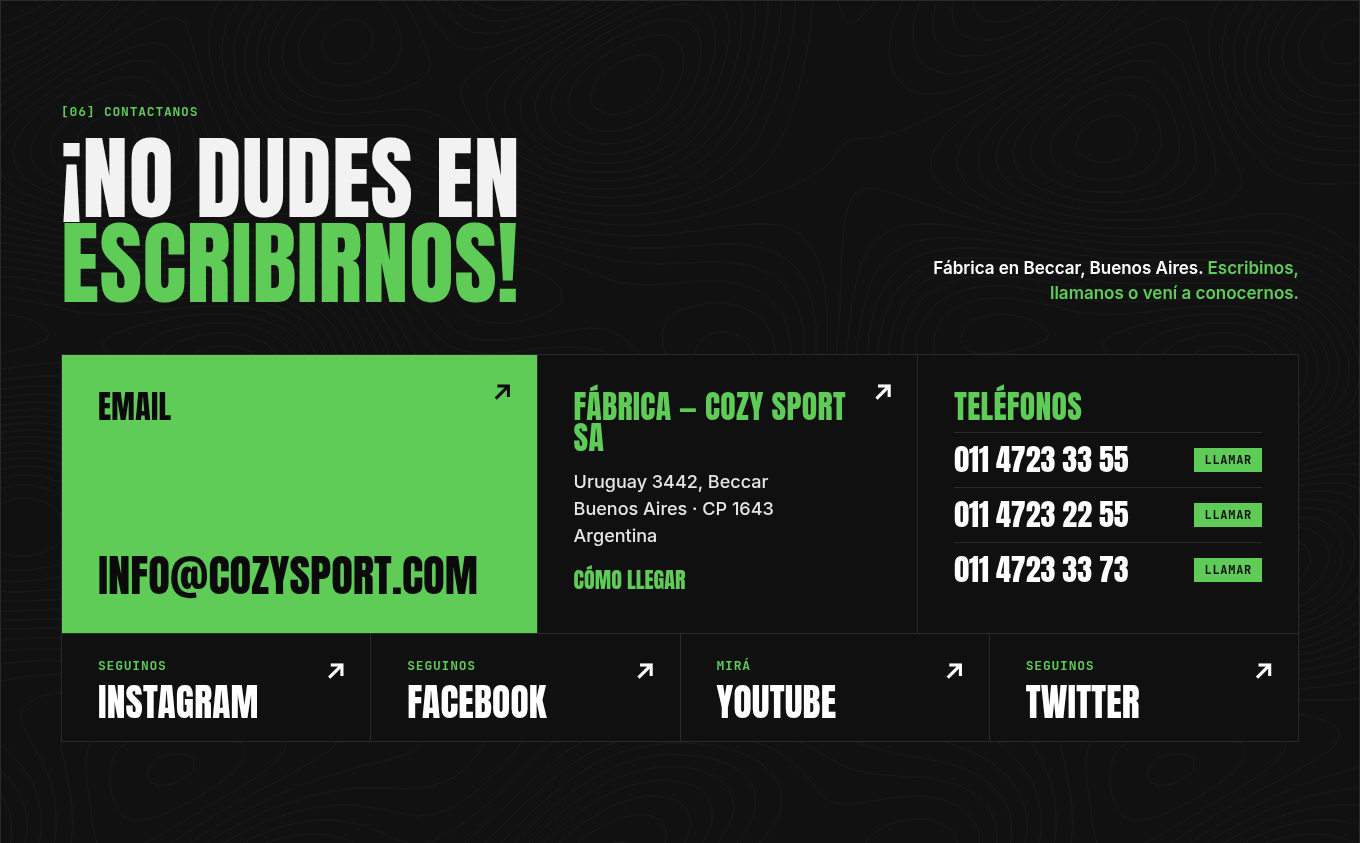
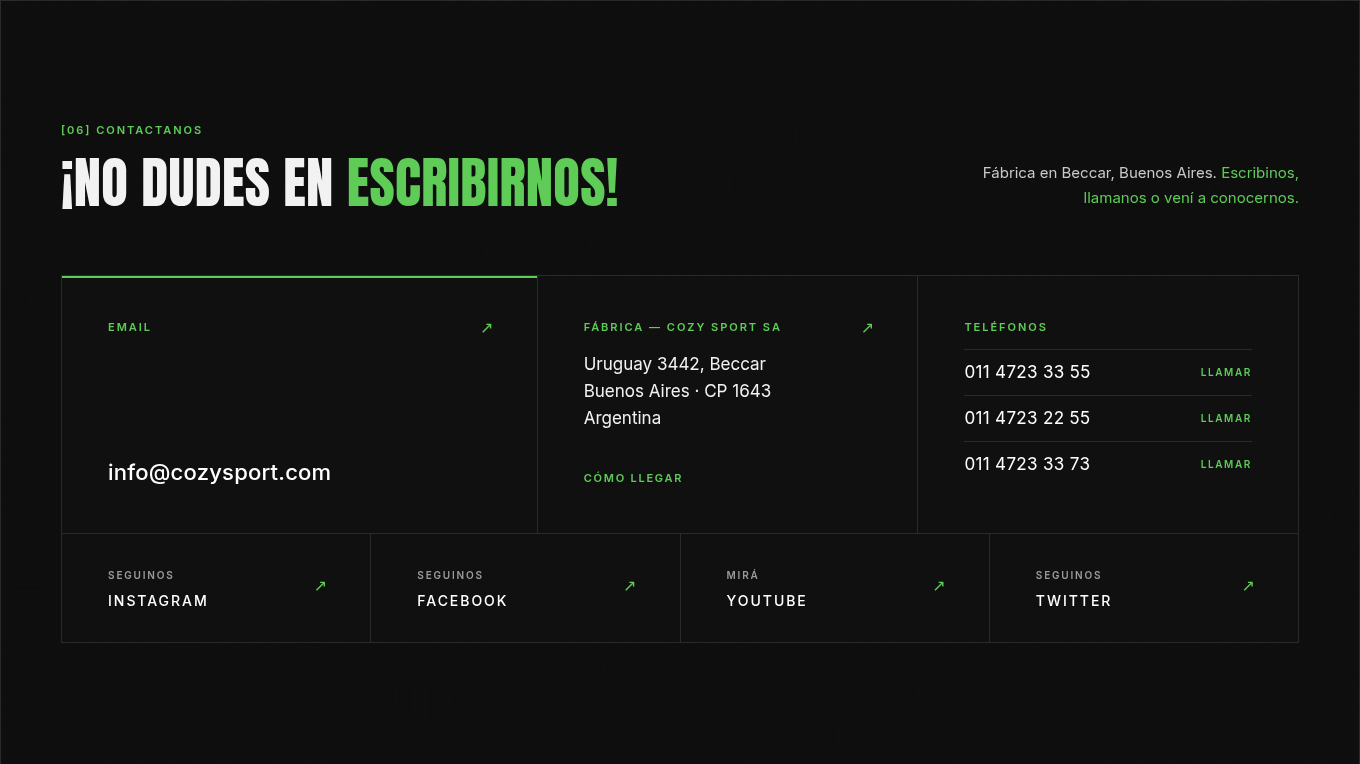
Sitewide premium polish: refined type scale, spacing rhythm, restrained green, fine lines, calmer hovers

diff --git a/styles.css b/styles.css
@@ -76,13 +76,14 @@ main>.frame:first-child{border-top:1px solid var(--line)}
 .hero__photo>*:not(img){position:absolute;z-index:2}
 .hero__top{top:0;left:0;right:0;display:flex;align-items:center;gap:28px;padding:22px 24px 0 26px}
 .hero__logo img{width:150px;height:auto}
-.hero__nav{display:flex;flex-wrap:wrap;gap:4px 28px;margin-left:auto;font-size:21px;letter-spacing:.03em}
-.hero__nav a{text-decoration:none;color:#fff;padding:4px 0;border-bottom:3px solid transparent;text-shadow:0 1px 10px rgba(0,0,0,.35);transition:color .2s,border-color .2s}
+.hero__nav{display:flex;flex-wrap:wrap;gap:4px 30px;margin-left:auto;font-family:var(--sans);font-weight:500;font-size:13px;text-transform:uppercase;letter-spacing:.16em}
+.hero__nav a{text-decoration:none;color:#fff;padding:6px 0;border-bottom:1px solid transparent;text-shadow:0 1px 8px rgba(0,0,0,.45);transition:color .2s,border-color .2s}
 .hero__nav a:hover{color:var(--acc)}
-.hero__nav a[aria-current]{color:var(--acc);border-bottom-color:var(--acc)}
+.hero__nav a[aria-current]{color:#fff;border-bottom-color:var(--acc)}
 .hero__sq{flex:none}
-.hero__tag{top:118px;right:26px;text-align:right;font-size:clamp(34px,3.7vw,58px);line-height:.95;color:#fff;text-shadow:0 2px 18px rgba(0,0,0,.35)}
-.hero__mini{bottom:calc(clamp(72px,10vw,160px) + 26px);left:26px;font-size:13px;color:var(--acc);font-weight:700}
+.hero__tag{top:118px;right:26px;text-align:right;font-family:var(--sans);font-weight:300;text-transform:uppercase;letter-spacing:.08em;font-size:clamp(20px,2vw,30px);line-height:1.3;color:#fff;text-shadow:0 1px 14px rgba(0,0,0,.45)}
+.hero__tag .acc{font-weight:500}
+.hero__mini{bottom:calc(clamp(72px,10vw,160px) + 26px);left:26px;font-size:12px;letter-spacing:.18em;color:var(--acc);font-weight:600;text-shadow:0 1px 8px rgba(0,0,0,.5)}
 .hero__title{bottom:-.06em;left:22px;font-size:clamp(72px,10vw,160px);color:var(--acc);line-height:.86;white-space:nowrap}
 
 .hero__num{position:absolute;inset:0;pointer-events:none;z-index:3}
@@ -132,7 +133,7 @@ main>.frame:first-child{border-top:1px solid var(--line)}
 /* ---------- SERVICIOS ---------- */
 .svc{border-top:1px solid var(--line)}
 .svc__row{display:grid;grid-template-columns:90px 1.2fr 1fr;align-items:center;gap:24px;padding:clamp(16px,2vw,26px) 0;border-bottom:1px solid var(--line);transition:padding .25s,background .25s}
-.svc__i{font-size:13px;color:var(--acc);font-weight:700}
+.svc__i{font-size:11px;color:var(--acc)}
 .svc__row h3{font-size:clamp(28px,3.4vw,52px);transition:color .25s}
 .svc__row p{font-size:16px;color:#d6d6d6}
 .svc__row:hover{padding-left:14px}
@@ -160,7 +161,7 @@ main>.frame:first-child{border-top:1px solid var(--line)}
 .banner__title{font-size:clamp(56px,8.4vw,136px);color:var(--acc)}
 .banner__cta{align-self:flex-end;max-width:420px;background:rgba(10,10,10,.92);border:1px solid var(--line);padding:22px}
 .banner__cta p{font-size:16px;color:#fff;margin-bottom:16px}
-.btn{display:inline-block;background:var(--acc);color:var(--ink);font-family:var(--disp);font-weight:400;text-transform:uppercase;letter-spacing:.03em;font-size:20px;line-height:1;padding:14px 20px;text-decoration:none;transition:transform .2s}
+.btn{display:inline-block;background:var(--acc);color:var(--ink);font-family:var(--disp);font-weight:400;text-transform:uppercase;letter-spacing:.03em;font-size:15px;letter-spacing:.08em;line-height:1;padding:13px 20px;text-decoration:none;transition:transform .2s}
 .btn:hover{transform:translate(2px,-2px)}
 
 /* ---------- HISTORIA ---------- */
@@ -190,45 +191,132 @@ main>.frame:first-child{border-top:1px solid var(--line)}
 /* ---------- CONTACTO ---------- */
 .contact__big{font-size:clamp(46px,6.4vw,104px)}
 .cards{display:grid;grid-template-columns:1.25fr 1fr 1fr;gap:1px;background:var(--line);border:1px solid var(--line)}
-.card{position:relative;display:flex;flex-direction:column;gap:14px;min-height:230px;padding:clamp(22px,2.6vw,36px);background:var(--panel);text-decoration:none;color:#fff;transition:background .25s,color .25s}
-a.card:hover,a.card:focus-visible{background:var(--acc);color:var(--ink)}
-.card__lbl{font-family:var(--disp);text-transform:uppercase;letter-spacing:.01em;font-size:clamp(24px,2.2vw,32px);line-height:1;color:var(--acc)}
-a.card:hover .card__lbl,a.card:focus-visible .card__lbl{color:var(--ink)}
-.card__big{margin-top:auto;font-family:var(--disp);text-transform:uppercase;font-size:clamp(30px,3.1vw,48px);line-height:1;overflow-wrap:anywhere}
-.card__val{font-size:18px;font-weight:500;line-height:1.5;color:#e6e6e6}
-a.card:hover .card__val{color:var(--ink)}
-.card__cta{margin-top:auto;font-family:var(--disp);text-transform:uppercase;font-size:22px;color:var(--acc)}
-a.card:hover .card__cta{color:var(--ink)}
-.card__go{position:absolute;top:22px;right:24px;font-size:26px;font-weight:700;line-height:1}
-.card--mail{background:var(--acc);color:var(--ink)}
-.card--mail .card__lbl{color:var(--ink)}
-.card--mail:hover,.card--mail:focus-visible{background:#fff!important}
+.card{position:relative;display:flex;flex-direction:column;gap:18px;min-height:240px;padding:clamp(28px,3.2vw,48px);background:var(--panel);text-decoration:none;color:#fff;transition:background .25s,color .25s}
+a.card:hover,a.card:focus-visible{background:#151515}
+.card__lbl{font-family:var(--sans);font-weight:600;text-transform:uppercase;letter-spacing:.18em;font-size:11px;line-height:1;color:var(--acc)}
+
+.card__big{margin-top:auto;font-family:var(--sans);font-weight:500;font-size:clamp(18px,1.6vw,22px);letter-spacing:.01em;line-height:1.2;color:#fff;overflow-wrap:anywhere;border-bottom:1px solid transparent;width:fit-content;transition:border-color .25s,color .25s}
+a.card:hover .card__big{border-bottom-color:var(--acc)}
+.card__val{font-size:17px;font-weight:400;line-height:1.6;color:#f2f2f2}
+
+.card__cta{margin-top:auto;font-family:var(--sans);font-weight:600;text-transform:uppercase;letter-spacing:.16em;font-size:11px;color:var(--acc)}
+
+.card__go{position:absolute;top:clamp(26px,3vw,44px);right:clamp(26px,3vw,44px);font-size:16px;font-weight:400;line-height:1;color:var(--acc);transition:transform .25s}
+a.card:hover .card__go,.social:hover .card__go{transform:translate(2px,-2px)}
+.card--mail{box-shadow:inset 0 2px 0 var(--acc)}
 .card--list{gap:0}
-.card--list .card__lbl{margin-bottom:10px}
-.card__row{display:flex;justify-content:space-between;align-items:center;gap:12px;padding:12px 0;border-top:1px solid var(--line);text-decoration:none;font-family:var(--disp);font-size:clamp(24px,2.2vw,30px);line-height:1;color:#fff;transition:color .2s,padding .2s}
-.card__row-cta{font-family:var(--mono);text-transform:uppercase;letter-spacing:.06em;font-size:12px;font-weight:700;color:var(--ink);background:var(--acc);padding:6px 10px}
-.card__row:hover,.card__row:focus-visible{color:var(--acc);padding-left:6px}
+.card--list .card__lbl{margin-bottom:16px}
+.card__row{display:flex;justify-content:space-between;align-items:center;gap:12px;padding:14px 0;border-top:1px solid var(--line);text-decoration:none;font-family:var(--sans);font-weight:400;font-size:17px;letter-spacing:.02em;line-height:1;color:#fff;transition:color .2s,padding .2s}
+.card__row-cta{font-family:var(--sans);text-transform:uppercase;letter-spacing:.16em;font-size:10px;font-weight:600;color:var(--acc);padding:0}
+.card__row:hover,.card__row:focus-visible{color:var(--acc)}
 .socials{display:grid;grid-template-columns:repeat(4,1fr);gap:1px;background:var(--line);border:1px solid var(--line);border-top:0}
-.social{position:relative;display:flex;flex-direction:column;gap:8px;padding:22px clamp(22px,2.6vw,36px);background:var(--panel);text-decoration:none;color:#fff;transition:background .25s,color .25s}
-.social .lbl{font-size:13px;font-weight:700;color:var(--acc)}
-.social b{font-weight:400;font-size:clamp(28px,2.6vw,40px)}
-.social:hover,.social:focus-visible{background:var(--acc);color:var(--ink)}
-.social:hover .lbl,.social:focus-visible .lbl{color:var(--ink)}
+.social{position:relative;display:flex;flex-direction:column;gap:12px;padding:clamp(24px,2.6vw,34px) clamp(28px,3.2vw,48px);background:var(--panel);text-decoration:none;color:#fff;transition:background .25s,color .25s}
+.social .lbl{font-family:var(--sans);font-size:10px;font-weight:600;letter-spacing:.18em;color:#9a9a9a}
+.social b{font-family:var(--sans);font-weight:500;text-transform:uppercase;letter-spacing:.14em;font-size:14px}
+.social:hover,.social:focus-visible{background:#151515}
+.social:hover b{color:var(--acc)}
 
 /* ---------- FOOTER ---------- */
 .foot{display:grid;grid-template-columns:1fr;border-top:1px solid var(--line);margin-bottom:var(--gap);border-bottom:1px solid var(--line);overflow:hidden;background:rgba(16,16,16,.72)}
 .foot__panel{margin:clamp(20px,3vw,40px);border:2px solid var(--acc);background:var(--ink);padding:clamp(22px,3vw,40px);display:grid;grid-template-columns:1.2fr 1fr 1fr;gap:28px 32px}
-.foot__brand img{width:190px;height:auto}
-.foot__brand p{margin:16px 0 22px;font-size:16px;font-weight:500;color:#e6e6e6;max-width:320px;line-height:1.5}
-.foot__col{display:flex;flex-direction:column;gap:10px}
-.foot__col h3{font-family:var(--disp);font-weight:400;text-transform:uppercase;font-size:clamp(28px,2.6vw,40px);line-height:1;color:#fff;margin-bottom:8px;letter-spacing:.005em}
+.foot__brand img{width:150px;height:auto}
+.foot__brand p{margin:20px 0 28px;font-size:14px;font-weight:400;color:#d8d8d8;max-width:300px;line-height:1.65}
+.foot__col{display:flex;flex-direction:column;gap:12px}
+.foot__col h3{font-family:var(--sans);font-weight:600;text-transform:uppercase;font-size:11px;line-height:1;color:#fff;margin-bottom:10px;letter-spacing:.18em}
 .foot__col h3 span{color:var(--acc)}
-.foot__col a{font-family:var(--disp);text-transform:uppercase;letter-spacing:.03em;color:#fff;font-size:20px;line-height:1.15;text-decoration:none;width:fit-content;transition:color .2s}
+.foot__col a{font-family:var(--sans);font-weight:400;color:#ececec;font-size:14px;line-height:1.4;text-decoration:none;width:fit-content;transition:color .2s}
 .foot__col a:hover{color:var(--acc)}
-.foot__base{grid-column:1/-1;display:flex;flex-wrap:wrap;justify-content:space-between;gap:12px 24px;padding-top:22px;border-top:1px solid var(--line);font-size:14px;font-weight:500;color:#cfcfcf}
-.foot__up{font-family:var(--disp);text-transform:uppercase;letter-spacing:.03em;color:var(--acc);text-decoration:none;font-size:22px;line-height:1}
+.foot__base{grid-column:1/-1;display:flex;flex-wrap:wrap;justify-content:space-between;gap:12px 24px;padding-top:26px;margin-top:12px;border-top:1px solid var(--line);font-size:12px;font-weight:400;letter-spacing:.04em;color:#bdbdbd}
+.foot__up{font-family:var(--sans);font-weight:600;text-transform:uppercase;letter-spacing:.16em;color:var(--acc);text-decoration:none;font-size:11px;line-height:1.6}
 .foot__giant{position:relative;background:var(--acc);overflow:hidden;aspect-ratio:2280/600}
 .foot__giant img{position:absolute;max-width:none;width:96%;height:auto;left:2%;top:11.4%;filter:none}
+
+
+/* =========================================================
+   POLISH — sistema premium: pocas medidas, aire, líneas finas
+   Escala: label 11 · body 15/16 · lead 18 · h3 22–28 · h2 34–56
+   Momentos grandes: solo el 83 del hero y la banda COZY del footer
+   ========================================================= */
+body{background:var(--bg)}
+body::before{content:"";position:fixed;inset:0;z-index:-1;pointer-events:none;background:url("assets/topo.svg") 0 0/1000px 1000px repeat;opacity:.28}
+/* labels: Inter chico, tracking amplio */
+.lbl,.kicker,.svc__i,.counter dt,.th span,.mate span{font-family:var(--sans);font-weight:600;text-transform:uppercase;letter-spacing:.18em;font-size:11px}
+.kicker{margin-bottom:18px;color:var(--acc)}
+.kicker--dark{color:var(--ink)}
+.num-v,.counter dd{font-family:var(--sans);letter-spacing:-.01em}
+/* titulares moderados */
+.h2,.contact__big{font-size:clamp(34px,3.8vw,56px);line-height:.98}
+.sec-head{margin-bottom:clamp(36px,4.6vw,64px)}
+.sec-head__aside{max-width:380px;font-size:15px;font-weight:400;line-height:1.65;color:#c9c9c9}
+.sec-head__aside .acc,.sec-head__aside b{color:#fff;font-weight:500}
+/* ritmo de secciones */
+.steps,.services,.athletes,.team,.contact,.story{padding-block:clamp(64px,8.4vw,128px);background:rgba(14,14,14,.82)}
+/* botones y cuadrado: sobrios */
+.btn{font-family:var(--sans);font-weight:600;font-size:12px;letter-spacing:.16em;padding:15px 24px;transition:background .25s,color .25s}
+.btn:hover{transform:none;background:#fff}
+.sq{transition:background .25s}
+.sq:hover{transform:none;background:#fff}
+.bar__nav{font-family:var(--sans);font-weight:500;font-size:12px;letter-spacing:.16em;gap:28px}
+/* hero */
+.hero__title{font-size:clamp(64px,8.6vw,138px)}
+.hero__block{padding:32px 26px 34px}
+.hero__intro{font-size:16px;font-weight:400;line-height:1.6;max-width:560px;margin-bottom:30px}
+.hero__intro b{font-weight:600}
+.counter{border-left:1px solid var(--ink);padding:2px 0 2px 14px}
+.counter dt{font-size:10px}
+.counter dd{font-size:clamp(22px,2.2vw,32px);font-weight:600;margin-top:4px}
+/* banda de palabras */
+.band__words{font-size:clamp(26px,3vw,46px);color:#fff;letter-spacing:.04em}
+/* titular */
+.lede{padding:clamp(48px,6vw,88px) var(--pad);border-bottom:1px solid var(--line)}
+.lede__title{font-size:clamp(32px,3.6vw,54px);color:#fff}
+.lede__copy{font-size:16px;font-weight:400;line-height:1.65;color:#c9c9c9;max-width:420px}
+.lede__copy b{color:#fff;font-weight:500}
+/* proceso */
+.step{padding:clamp(28px,3vw,44px);gap:16px;min-height:300px}
+.step__n{font-size:clamp(40px,3.6vw,56px);line-height:1;color:var(--acc)}
+.step h3{font-size:clamp(22px,2vw,28px)}
+.step p{font-size:15px;line-height:1.65;color:#c4c4c4}
+.step:hover{background:#161616;color:var(--txt)}
+.step:hover .step__n,.step:hover .hl{color:var(--acc)}
+.step:hover p{color:#d8d8d8}
+/* video */
+.reel__text{background:var(--panel);color:var(--txt);border-right:1px solid var(--line);box-shadow:inset 0 2px 0 var(--acc)}
+.reel__title{font-size:clamp(38px,4.4vw,68px)}
+.reel__sub{font-size:15px;font-weight:400;color:#c9c9c9;margin-top:22px}
+.reel__sub b{font-weight:500;color:#fff}
+.reel__text .kicker--dark{color:var(--acc)}
+/* servicios */
+.svc__row{padding:clamp(22px,2.4vw,32px) 0;transition:background .25s}
+.svc__row h3{font-size:clamp(22px,2.4vw,34px)}
+.svc__row p{font-size:15px;line-height:1.65;color:#c4c4c4}
+.svc__row:hover{padding-left:0}
+/* atletas */
+.th div{padding-top:12px}
+.th b{font-size:14px;font-weight:500}
+.th span{font-size:10px}
+.th em{font-size:13px;color:#a8a8a8}
+/* banner */
+.banner__title{font-size:clamp(44px,5.6vw,88px);color:#fff}
+.banner__cta{background:rgba(10,10,10,.9);padding:28px;max-width:380px}
+.banner__cta p{font-size:15px;line-height:1.6;color:#d8d8d8;margin-bottom:20px}
+/* historia */
+.story__year{font-size:clamp(84px,9vw,140px)}
+.story__year span:first-child{-webkit-text-stroke:1px var(--acc)}
+.story__lead{font-size:18px;font-weight:400;line-height:1.6;color:#fff;margin:26px 0 32px}
+.story__cols{font-size:15px;color:#c4c4c4;line-height:1.75;column-gap:48px}
+/* equipo */
+.mate div{padding:18px 18px 22px;gap:4px}
+.mate b{font-size:15px;font-weight:500}
+.mate span{font-size:10px}
+.mate p{font-size:13px;color:#a8a8a8;margin-top:8px;line-height:1.6}
+.mate--acc{background:var(--panel);color:var(--txt);padding:clamp(22px,2.4vw,32px);box-shadow:inset 0 2px 0 var(--acc)}
+.mate--acc .display{font-size:clamp(34px,3.4vw,52px);color:var(--acc)}
+.mate--acc p{color:#c9c9c9}
+.mate--acc .mono{font-size:14px;font-weight:400;line-height:1.6}
+.mate--acc b{color:#fff;font-weight:500}
+/* footer: marco fino */
+.foot__panel{border:1px solid var(--line);padding:clamp(32px,4vw,56px);gap:36px 40px}
 
 /* reveal */
 .js .reveal{opacity:0;transform:translateY(18px);transition:opacity .6s,transform .6s}
@@ -239,18 +327,18 @@ a.card:hover .card__cta{color:var(--ink)}
   .crew{grid-template-columns:repeat(3,1fr)}
   .crew .mate--acc{grid-column:span 3;flex-direction:row;align-items:flex-end;gap:24px}
   .cards{grid-template-columns:1fr 1fr}
-  .card--mail{grid-column:1/-1;min-height:170px}
+  .card--mail{grid-column:1/-1;min-height:160px}
   .socials{grid-template-columns:repeat(2,1fr)}
-  .hero__nav{font-size:18px;gap:4px 20px}
+  .hero__nav{gap:4px 22px}
   .counters{grid-template-columns:repeat(2,auto)}
 }
 @media (max-width:860px){
   .hero{--ph:clamp(420px,64svh,600px);--nf:min(42vw,300px)}
   .num__d{transform:translateY(-50%)}
   .hero__top{flex-wrap:wrap;gap:14px 16px;padding:16px 14px 0 16px}
-  .hero__nav{order:3;flex-basis:100%;margin-left:0;font-size:19px;gap:2px 18px;padding-top:2px}
+  .hero__nav{order:3;flex-basis:100%;margin-left:0;font-size:12px;gap:2px 20px;padding-top:6px}
   .hero__sq{margin-left:auto}
-  .hero__tag{top:auto;bottom:calc(min(16vw,120px)*1.72 + 66px);right:auto;left:16px;text-align:left;font-size:min(8.4vw,40px)}
+  .hero__tag{top:auto;bottom:calc(min(16vw,120px)*1.72 + 66px);right:auto;left:16px;text-align:left;font-size:min(5vw,22px)}
   .hero__photo::after{background:linear-gradient(180deg,rgba(0,0,0,.78) 0%,rgba(0,0,0,.3) 26%,rgba(0,0,0,.15) 45%,rgba(0,0,0,.72) 100%)}
   .hero__title{font-size:min(16vw,120px)}
   .br-m{display:inline}
@@ -278,7 +366,7 @@ a.card:hover .card__cta{color:var(--ink)}
 @media (max-width:560px){
   .hero__logo img{width:120px}
   .hero__sq{width:44px;height:44px}
-  .hero__nav{font-size:18px;gap:0 14px}
+  .hero__nav{font-size:11px;letter-spacing:.14em;gap:0 16px}
   .hero__title{left:14px}
   .hero__mini{left:16px}
   .hero__block{padding-inline:16px}
@@ -288,12 +376,22 @@ a.card:hover .card__cta{color:var(--ink)}
   .mate--acc .display{font-size:44px}
   .cards{grid-template-columns:1fr}
   .card{min-height:0}
-  .card--mail{min-height:150px}
-  .card__big{font-size:min(7.4vw,40px);overflow-wrap:normal}
+  .card--mail{min-height:0}
+  .card__big{font-size:18px;overflow-wrap:normal}
   .foot__panel{grid-template-columns:1fr}
   .band__words{flex-direction:column;align-items:flex-start;gap:0;font-size:min(14vw,64px);padding-inline:var(--pad)}
   .band{height:300px}
   .bar{gap:12px}
   .bar__logo img{width:78px}
   .bar__nav{font-size:16px;gap:16px}
+}
+@media (max-width:860px){
+  .hero__title{font-size:min(16vw,120px)}
+  .band__words{font-size:min(7vw,34px)}
+}
+@media (max-width:560px){
+  .band__words{font-size:min(9vw,36px)}
+  .mate--acc .display{font-size:36px}
+  .step{padding:26px 22px}
+  .story__year{font-size:min(22vw,110px)}
 }

diff --git a/index.html b/index.html
@@ -16,9 +16,9 @@
 <link rel="apple-touch-icon" href="assets/apple-icon.png" sizes="180x180">
 <link rel="preconnect" href="https://fonts.googleapis.com">
 <link rel="preconnect" href="https://fonts.gstatic.com" crossorigin>
-<link href="https://fonts.googleapis.com/css2?family=Anton&family=Inter:wght@400;500;600;700&family=JetBrains+Mono:wght@500;700&display=swap" rel="stylesheet">
+<link href="https://fonts.googleapis.com/css2?family=Anton&family=Inter:wght@300;400;500;600;700&family=JetBrains+Mono:wght@500;700&display=swap" rel="stylesheet">
 <link rel="preload" as="image" href="assets/RATON_SLIDER.webp">
-<link rel="stylesheet" href="styles.css?v=202610242130">
+<link rel="stylesheet" href="styles.css?v=202610242200">
 </head>
 <body id="top">
 <a class="skip" href="#main">Saltar al contenido</a>
@@ -282,6 +282,6 @@
   </div>
   <div class="foot__giant" aria-hidden="true"><img src="assets/cozy-word.svg" alt="" width="2280" height="670"></div>
 </footer>
-<script src="main.js?v=202610242130" defer></script>
+<script src="main.js?v=202610242200" defer></script>
 </body>
 </html>
